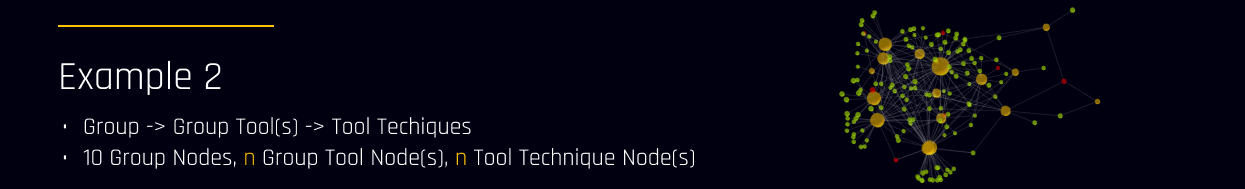
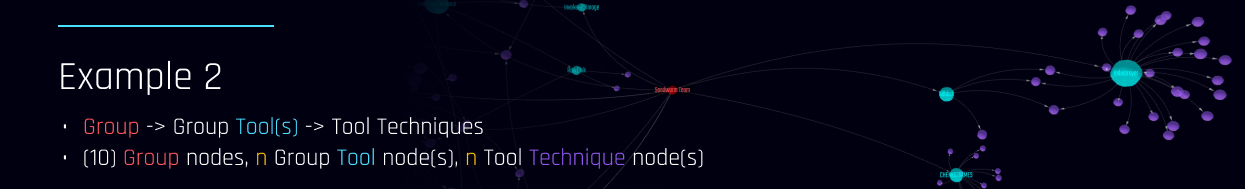
Updated README in preparation for the UI addition, small hotfix for group val

diff --git a/graph_generator.py b/graph_generator.py
@@ -1,3 +1,4 @@
+from os import link
 from attackcti import attack_client
 import json
 import re
@@ -68,8 +69,8 @@ def get_id_name(item_list):
         items_dict[item.external_references[0].external_id] = item.name
     return items_dict 
 
-def make_group_node(group, group_software, group_techniques, link_tool=False, link_tool_techniques=False, 
-                                                            lift_tool_techniques=False):
+def make_group_node(group, group_software, group_techniques, link_tool=False, 
+                                    link_tool_techniques=False, lift_tool_techniques=False):
     
     group_id = group.external_references[0].external_id
     group_name = group.name
@@ -104,8 +105,8 @@ def make_group_node(group, group_software, group_techniques, link_tool=False, li
     new_group_node = {
                 "id": group_id,
                 "type": node_type,
+                "val": group_val,
                 "attributes": {
-                    "val": group_val,
                     "name": group_name,
                     "aliases": group_aliases,
                     "description": group_description,
@@ -235,8 +236,8 @@ def make_technique_node(technique):
     new_technique_node = { 
                 "id": technique_id,
                 "type": node_type,
+                "val": technique_val,
                 "attributes": {
-                    "val": technique_val,
                     "name": technique_name,
                     "chain_phase": chain_phase,
                     "description": technique_detection,
@@ -250,11 +251,11 @@ def make_technique_node(technique):
 
 
 def main():
-    for group in groups:
+    for group in groups:            
         group_software = lift.get_software_used_by_group(group)
         group_techniques = lift.get_techniques_used_by_group(group)
         make_group_node(group, group_software, group_techniques, link_tool=True, lift_tool_techniques=True)
-        
+
         print(f"Finished Group: {group.name}")
 
     with open('force_graph_data.json', 'w') as f:

diff --git a/README.md b/README.md
@@ -1,22 +1,38 @@
 
 # ATTACK-Force-Graph
-Generate JSON force-directed/ node graph data from MITRE's ATT&CK framework
-- Work-In-Progress: More to come, this script is only a small part of a larger project.
+- Generate and visualize MITRE's ATTACK data in a 3D force-directed graph with a UI made specifically for the ATTACK data
 
 ![Showcase Header](/images/showcase_header.png)
 
+## DEMO:
+- PENDING
+
+## Preview:
+![Preview](/images/preview_header.png)
+
+
+## TODO:
+- [ ] Optimize time complexity for certain parts
+- [ ] Add affiliation template
+- [ ] Add Speciality template
+
 
 ## What?
-- Generate JSON force-graph data nodes and links from the MITRE ATTACK Framework based on your preferences.
+- Generate JSON force-graph data nodes and links from the MITRE ATTACK Framework based on your preferences. (`graph_generator.py`)
+- Use that data to visualize your results with a UI tailored around the ATTACK data. (`Frontend` directory)
+
 - The JSON data generated is formatted for use with @vasturiano's awesome various force-directed graph projects. (Tested and works on both 2D and 3D versions)
 - At the moment you can do the following combinations:
-    1. Group -> Group Tools -> Group Tool Techniques: 
+    1. Group -> Group Tools -> Group Tool Techniques:
         - Each group (APT) node will be linked to the corresponding tools/ software the group uses along.
         - Total node connections: **(group * *n* group tools * *n* tool techniques)**
     2. Group -> Group Tools/ Software:
         - Links just the tools without fetching tool techniques data
         - Total node connections: **(group * *n* group tools)**
-    3. Other
+    3. Groups Only
+        - A node for each group will be generated but no links. (What would you link a group to?!)
+        - Total node connections: 0 
+    4. Other
         - You can generate standalone nodes of groups or group tools/ software.
 
 ## Why?
@@ -26,19 +42,96 @@ Generate JSON force-directed/ node graph data from MITRE's ATT&CK framework
 
 ## How?
 - The script uses @Cyb3rWard0g's ATTACK-Python-Client. Having used MITRE's STIX CTI... just use Roberto's package. 
-- Lift requests are network requests and can be time-consuming.
+- Lift requests are network requests and can be time-consuming. Efficiency improvements planned after the main portion is done. 
 
-## EXAMPLES
-- [Example 0: Only Group Nodes](https://osv22.github.io/ATTACK-Force-Graph/show-example/example0/group30.html)
-- [Example 1: Group -> Tool(s)](https://osv22.github.io/ATTACK-Force-Graph/show-example/example1/group30-tools.html)
-- [Example 2: Group -> Group Tool(s) -> Tool Technqiue(s)](https://osv22.github.io/ATTACK-Force-Graph/show-example/example2/group10-tool-teq.html)
-- [Example 3 - ALL Group -> Tools -> Technqiues (1MB of JSON Data)](https://osv22.github.io/ATTACK-Force-Graph/show-example/example3/all-group-tool-teqs.html)
+## Example Demos
+- Full Demo with UI: PENDING
+- Graphs Only:
+    - [Example 0: Only Group Nodes](https://osv22.github.io/ATTACK-Force-Graph/show-example/example0/group30.html)
+    - [Example 1: Group -> Tool(s)](https://osv22.github.io/ATTACK-Force-Graph/show-example/example1/group30-tools.html)
+    - [Example 2: Group -> Group Tool(s) -> Tool Technqiue(s)](https://osv22.github.io/ATTACK-Force-Graph/show-example/example2/group10-tool-teq.html)
+    - [Example 3 - ALL Group -> Tools -> Technqiues (1MB of JSON Data)](https://osv22.github.io/ATTACK-Force-Graph/show-example/example3/all-group-tool-teqs.html)
 
-## PREVIEWS
+## Examples
 ![Example0 Header](/images/ex0_header.png)
 ![Example1 Header](/images/ex1_header.png)
 ![Example1 Header](/images/ex2_header.png)
 ![Example1 Header](/images/ex3_header.png)
 
-## JSON Data Preview
-- Preview attached JSON files or wait for screenshots coming soon.
+## Data Preview
+- NOTE: Specific values are not part of the MITRE ATTACK Framework:
+    - Group: `affiliation` - This is subjective and can be *problematic*, so it is up to your assessment to evaluate which group is affiliated with whom. 
+    - Group: `targets` - Work-in-progress for defaults but hard to maintain over time given that it is not part of the ATTACK framework.
+    - Group: `speciality` - Work-in-progress and is much easier to maintain.
+
+
+- `val` - This is can be used to determine how big you want a node element to be.
+    - For groups: The `val` is based on the number of tools the group uses
+    - For tools: The `val` is based on the number of techniques the tool makes possible
+    - For techniques: Set to `None` by default, leaving it up to you
+
+### Group Node
+```
+"id": "MITRE GROUP ID HERE. EX: G0005",
+"type": "group",
+"val": 2,
+"attributes": {
+    "name": "Cool Group/ APT Name Here",
+    "aliases": [
+        "Group alias",
+        "Operation Golden Kitty",
+    ],
+    "description": "Cleaned description. Do not use `get_desc()` if you want raw desc...",
+    "affiliation": "You have assign this value yourself, read the NOTE above :)", 
+    "targets": ["Also you have to", "set this. Read NOTE above"],
+    "speciality": ["set this based on your assessment", "Read NOTE above"],
+    "tools": {
+        "tool_id_here": "tool_name_here",
+        "S0225": "sqlmap",
+    },
+    "techniques": {
+        "technique_id_here": "technique_name_here",
+        "T1566.003": "Spearphishing via Service",
+    }
+}
+```
+### Tool Node
+```
+"id": "MITRE Software ID HERE. EX: S0084",
+"type": "tool",
+"val": 1
+"attributes": {
+    "name": "tool_name_here",
+    "aliases": [],
+    "labels": [
+        "tool"
+    ],
+    "description": "Cleaned description. Do not use `get_desc()` if you want raw desc...",
+    "platforms": [
+        "Linux",
+        ...
+    ],
+    "techniques": {
+        "T1190": "Exploit Public-Facing Application"
+    }
+}
+```
+
+### Technique Node
+- `val` is set to `None` by default, you can set it to length of platforms or whatever your preference is.
+```
+"id": "MITRE Technique ID HERE. EX: T1190",
+"type": "technique",
+"val": null,
+"attributes": {
+    "name": "Exploit Public-Facing Application",
+    "chain_phase": "initial-access",
+    "description": "Cleaned description. Do not use `get_desc()` if you want raw desc.",
+    "detection": "Cleaned detection. Do not use `get_desc()` if you want raw detection paragraph...",
+    "is_subtype": false,
+    "platforms": [
+        "Windows",
+        ...
+    ]
+}
+```
